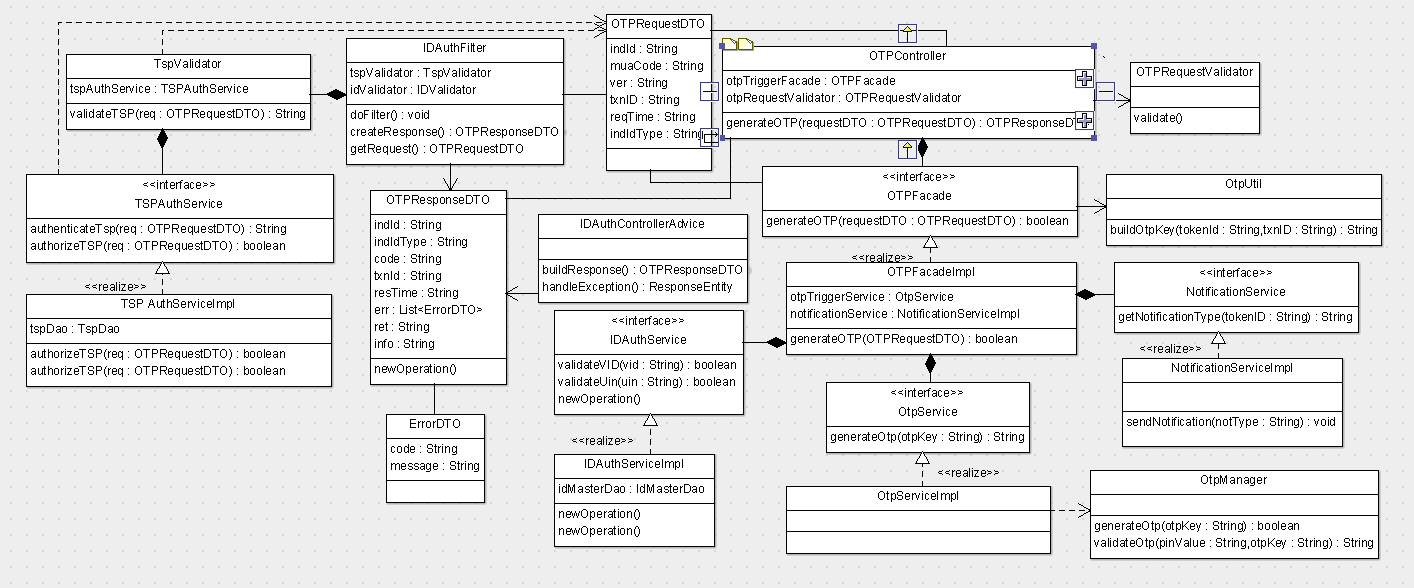
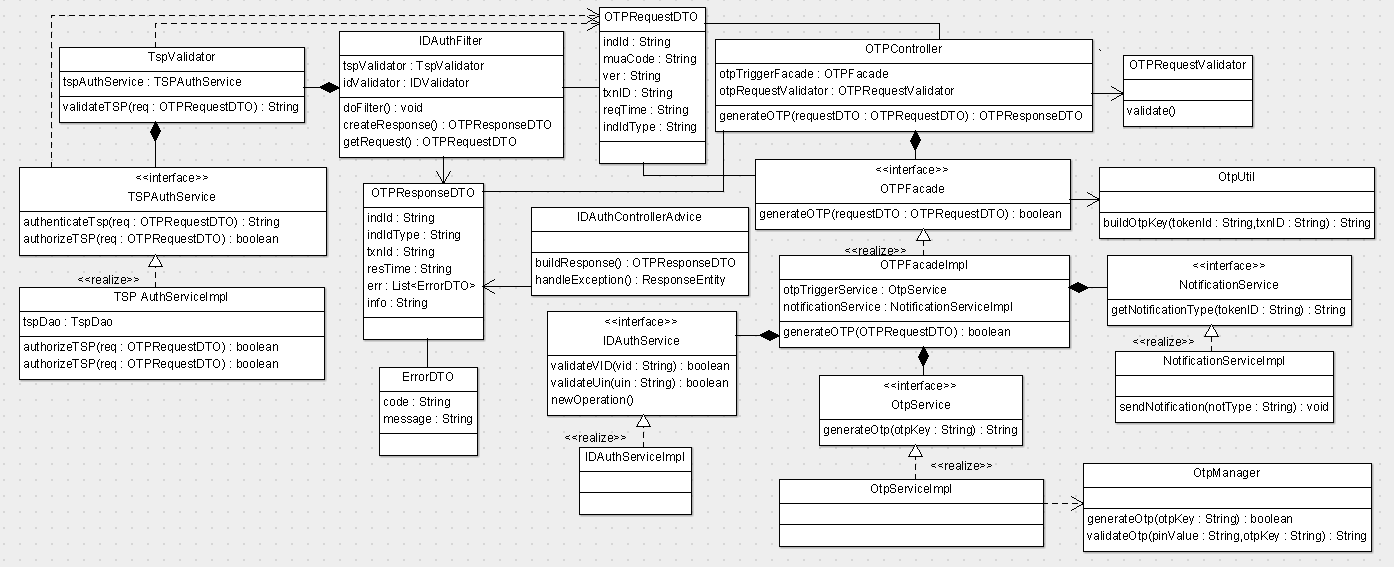
Updated design doc for OTPRequest

Changed region(s): [[0.0, 0.0, 0.9871, 0.9894], [0.2776, 0.8395, 0.3393, 0.8695]]

diff --git a/design/authentication/OTP_Request_REST_service.md b/design/authentication/OTP_Request_REST_service.md
@@ -68,7 +68,8 @@ Below are details on the above classes –
 -	***OTPUtil*** – Utility class to generate unique key to be used to generate OTP
 -	***IDAuthControllerAdvice*** – Spring Controller Advice used to handle all exceptions and send corresponding error response
 -	***IDAuthService*** –Spring Service that validates UIN and VID for its authenticity
--	***NotificationService*** – Sprint Service whichwhich is created in another user story and used here to send generated OTP to individual as SMS or Email.
+-	***NotificationService*** – Sprint Service used to send generated OTP to individual as SMS and/or Email
+-	***TSPAuthService*** - Spring Service to authenticate and authorize TSPs 
 
 
 **2.2. Sequence Diagram:**
